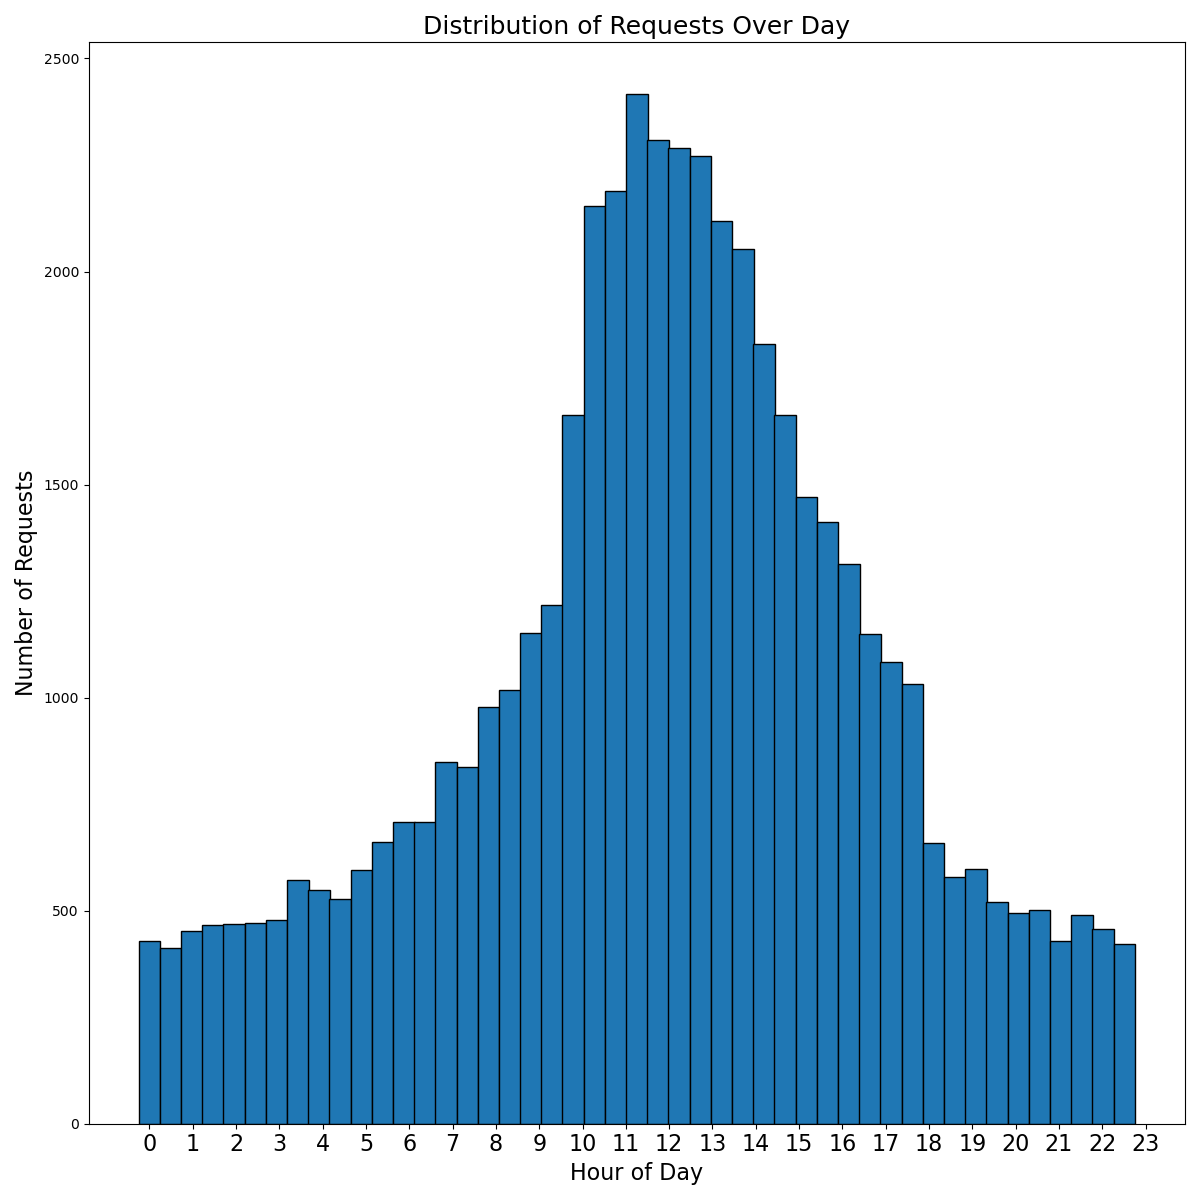
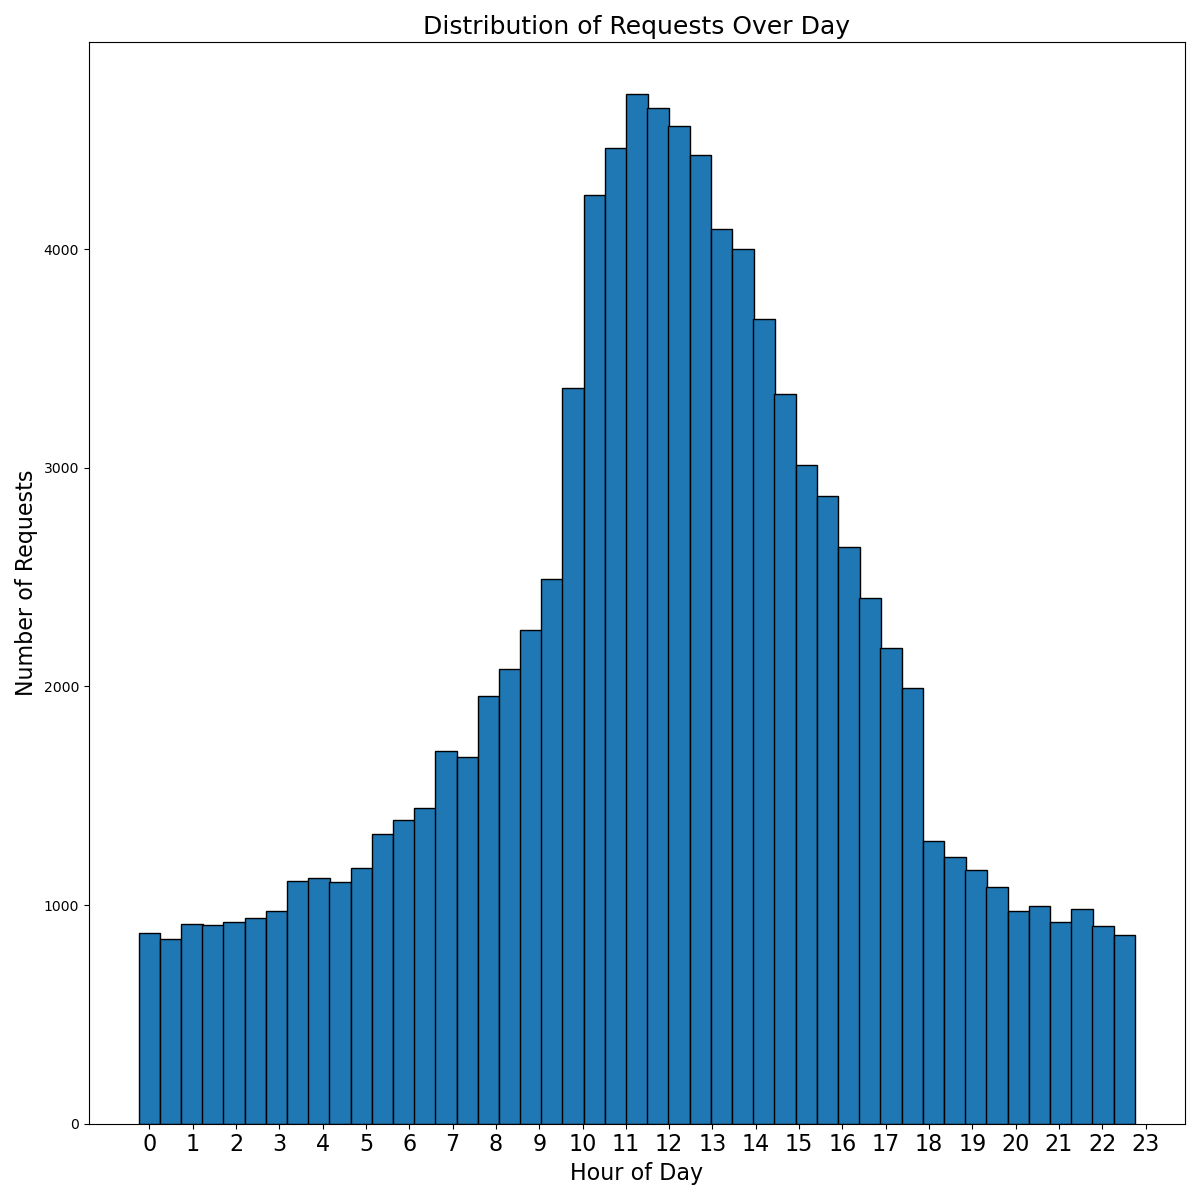
feat: Save simulation results to JSON file (main)
This commit introduces a change to save simulation results
to a JSON file and refactors the evaluator to filter out
the confusion matrix before saving model metrics to JSON.

The evaluator now saves all metrics except the confusion
matrix to a JSON file.

Simulation results are now saved to a JSON file.

diff --git a/src/pipeline/utils/evaluation/evaluator.py b/src/pipeline/utils/evaluation/evaluator.py
@@ -6,7 +6,7 @@ from torch.utils.data import DataLoader
 
 from config.classes.Config import Config
 from const import (
-    MODEL_COMPUTE_METRICS_DEFAULT,
+    MODEL_COMPUTE_METRICS_DEFAULT, MODEL_METRICS_CONFUSION_MATRIX_NAME,
 )
 from pipeline.utils.inference.inferrer import infer_batch
 from pipeline.utils.metrics.calculator import (
@@ -98,10 +98,16 @@ def evaluate_model(
         )
 
         if metrics_save_path is not None:
-            # Save results as JSON file
-            save_json(metrics, metrics_save_path)
+            # Filter out all metrics except
+            # confusion matrix
+            metrics_to_save = {
+                k: v for k, v in metrics.items() if k != MODEL_METRICS_CONFUSION_MATRIX_NAME
+            }
 
-            debug("Metrics saved to JSON file")
+            # Save metrics as JSON file
+            save_json(metrics_to_save, metrics_save_path)
+
+            debug("Model results saved to JSON file")
 
         debug("Evaluation metrics computed")
 

diff --git a/src/simulation/simulator.py b/src/simulation/simulator.py
@@ -27,6 +27,7 @@ from simulation.baseline_caches.utils.CacheWrapper import CacheWrapper
 from simulation.metrics.calculator import calculate_cache_simulation_metrics
 from utils.json.saver import save_json
 from utils.logs.initializer import logs_phase
+from utils.logs.levels.debug_logger import debug
 from utils.simulation.classes.CacheMetricsLogger import (
     CacheMetricsLogger,
 )
@@ -133,6 +134,8 @@ def run_simulations(config: Config) -> None:
             / SIMULATION_RESULTS_FILE_NAME
     )
     save_json(results, results_save_path)
+
+    debug("Simulation results saved to JSON file")
 
     # Plot hit and miss rates over time
     hit_miss_rate_plot_save_path = (
